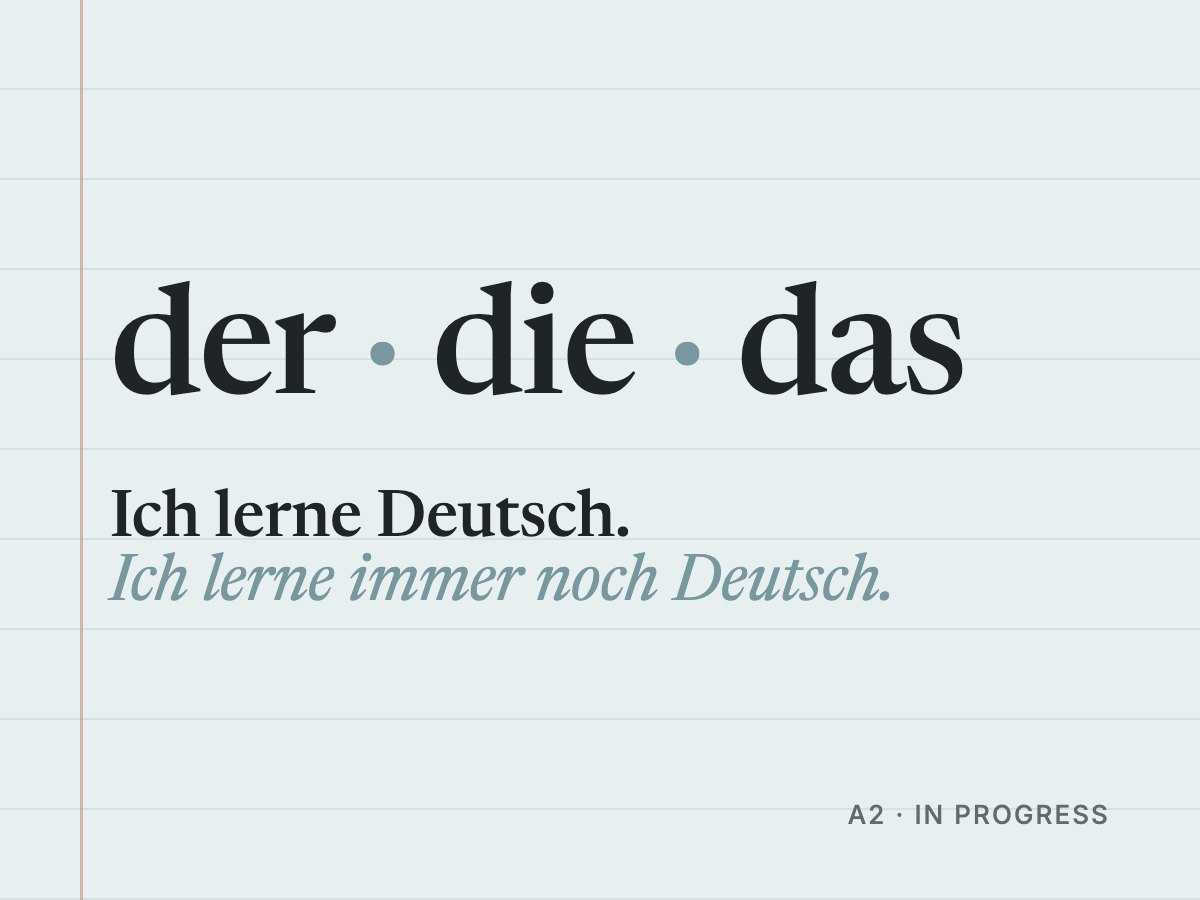
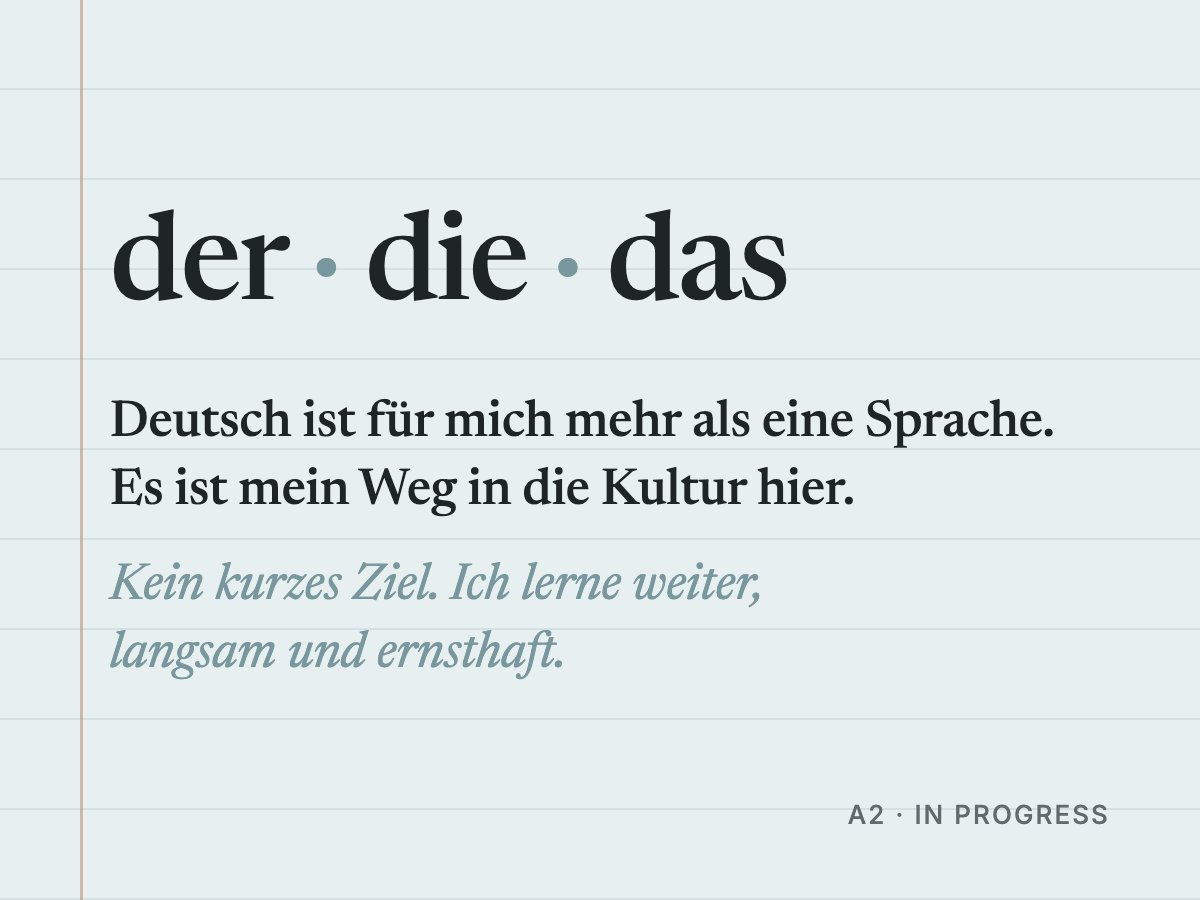
Life texts, German card, reading, podcast

Changed region(s): [[0.0925, 0.2178, 0.8633, 0.7467], [0.555, 0.3733, 0.5858, 0.4044]]

diff --git a/data/life.js b/data/life.js
@@ -11,9 +11,9 @@
 
 window.LIFE = {
   intro: {
-    en: "Outside work I dance, climb, run, skate, shoot arrows, read, visit museums, make things and look after my garden. These are simply things I love. Some of them also helped me grow, and I wrote about them.",
-    de: "Neben der Arbeit tanze ich, klettere, laufe, fahre Inliner, schieße mit Pfeil und Bogen, lese, gehe in Museen, bastle und kümmere mich um meinen Garten. Das sind einfach Dinge, die ich liebe. Manche davon haben mir auch geholfen zu wachsen, und darüber habe ich geschrieben.",
-    zh: "工作之外，我跳舞、攀岩、跑步、轮滑、射箭、读书、逛博物馆、做手工，也照料我的花园。这些只是我单纯喜欢的事。其中有一些也让我成长了，我把它们写了下来。",
+    en: "Outside work I dance, climb, run, skate and do archery, and I also love reading, visiting museums, making things by hand and looking after my garden. Some of these interests have been with me for many years; others simply make me happy. Many hobbies that seem small have quietly shaped me and become part of how I grew. So I wrote some of these moments down.",
+    de: "Neben der Arbeit tanze ich, klettere, laufe, fahre Inliner und schieße mit Pfeil und Bogen. Ich lese auch gern, gehe in Museen, bastle und kümmere mich um meinen Garten. Manche dieser Interessen begleiten mich seit vielen Jahren, andere machen mich einfach glücklich. Viele scheinbar kleine Hobbys haben mich unbemerkt geprägt und sind Teil meiner Entwicklung geworden. Deshalb habe ich einige dieser Momente aufgeschrieben.",
+    zh: "工作之余，我跳舞、攀岩、跑步、轮滑、射箭，也喜欢读书、逛博物馆、做手工和照料花园。有些兴趣陪了我很多年，有些只是单纯让我觉得快乐。很多看似微小的爱好，也在不知不觉中塑造了我，成为我成长的一部分。于是，我把这些片段也写了下来。",
   },
 
   lately: {
@@ -41,11 +41,11 @@ window.LIFE = {
       {
         name: { en: "German", de: "Deutsch", zh: "德语" },
         text: {
-          en: "Learning German. Still learning German.",
-          de: "Ich lerne Deutsch. Immer noch Deutsch.",
-          zh: "学德语。还在学德语。",
+          en: "More than a language: my way into German culture. A long-term project.",
+          de: "Mehr als eine Sprache: mein Weg in die deutsche Kultur. Ein langes Projekt.",
+          zh: "不只是一门语言，也是我走近德国文化的方式。想长期认真做下去。",
         },
-        image: { src: "images/life/german.jpg", caption: "Ich lerne immer noch Deutsch" },
+        image: { src: "images/life/german.jpg", caption: "Deutsch ist für mich mehr als eine Sprache." },
       },
     ],
   },
@@ -139,9 +139,9 @@ window.LIFE = {
       id: "reading",
       title: { en: "Reading", de: "Lesen", zh: "读书" },
       text: {
-        en: "I read fast, and I read in bursts. As a child I read an enormous amount in one concentrated stretch. Since then, reading comes in waves: a period of complete immersion, book after book, and then suddenly nothing for a while. The last wave came in the second year of my PhD. Now I can feel the next one coming: lately I have started reading a lot of philosophy.",
-        de: "Ich lese schnell, und ich lese in Schüben. Als Kind habe ich in einer einzigen intensiven Phase unglaublich viel gelesen. Seitdem kommt das Lesen in Wellen: eine Zeit völligen Eintauchens, Buch um Buch, und dann plötzlich eine Weile gar nichts. Die letzte Welle kam im zweiten Jahr meiner Promotion. Jetzt spüre ich, dass die nächste kommt: In letzter Zeit lese ich viel Philosophie.",
-        zh: "我读书很快，而且是爆发式地读。小时候我曾在一段时间里集中读了大量的书。从那以后，读书总是一阵一阵的：一段时间完全沉浸其中，一本接一本，然后突然很久不读。最近一次爆发是在博士第二年。最近我预感下一次爆发要来了：开始读很多哲学书。",
+        en: "I read fast, and often in bursts. As a child I once read a huge number of books in one concentrated stretch. Since then, reading has always come in waves for me: sometimes I am completely absorbed, reading one book after another; sometimes I don't touch a book for a long time. The last of these reading peaks came in the second year of my PhD.\n\nI have always felt that reading largely helps me make sense of things. In the past I learned about human nature, relationships and the complex ways people interact mostly from books. Now I increasingly like to bring that understanding back into real relationships: reflecting after I have lived through something, and continuing to get to know people, and myself, through those relationships.\n\nLately I have a feeling that the next reading peak is coming. AI has made me think again about many more basic questions, so I have started reading more philosophy. Questions about intelligence, consciousness, what a human being is, and how we actually understand the world have brought me back to books.",
+        de: "Ich lese schnell, und oft in Schüben. Als Kind habe ich in einer intensiven Phase sehr viele Bücher gelesen. Seitdem kommt das Lesen bei mir in Wellen: Manchmal tauche ich ganz ein und lese ein Buch nach dem anderen, manchmal rühre ich lange kein Buch an. Die letzte dieser Lesephasen war im zweiten Jahr meiner Promotion.\n\nIch hatte immer das Gefühl, dass Lesen mir vor allem hilft, Dinge zu verstehen. Früher habe ich aus Büchern viel über die menschliche Natur, über Beziehungen und über das komplizierte Miteinander von Menschen gelernt. Heute nehme ich dieses Verständnis immer lieber mit in echte Begegnungen: Ich denke über das Erlebte nach und lerne in Beziehungen weiter Menschen kennen, und auch mich selbst.\n\nIn letzter Zeit spüre ich, dass die nächste Lesephase kommt. Durch KI denke ich wieder über viele grundlegende Fragen nach, deshalb lese ich jetzt mehr Philosophie. Fragen über Intelligenz, Bewusstsein, darüber, was ein Mensch ist und wie wir die Welt eigentlich verstehen, haben mich zurück zu den Büchern gebracht.",
+        zh: "我读书很快，而且常常是爆发式地读。小时候，我曾在一段时间里集中读过大量的书。从那以后，阅读对我来说一直是一阵一阵的：有时会完全沉浸进去，一本接一本地读；有时又会很久不碰书。最近一次这样的阅读高峰，是在博士第二年。\n\n我一直觉得，读书很大程度上是在帮我解惑。以前，我更多从书里理解人性、关系和人与人之间复杂的互动；现在，我越来越喜欢把这些理解带回真实的人际交往中，在经历之后反思，在关系里继续认识人，也认识自己。\n\n最近，我隐约觉得下一次阅读高峰又要来了。AI 的出现让我重新开始思考很多更基础的问题，所以我开始读更多哲学。关于智能、意识、人是什么，以及我们究竟如何理解世界，这些问题又把我带回了书里。",
       },
       booksLabel: { en: "Books that stayed with me", de: "Bücher, die mich begleitet haben", zh: "影响我的书" },
       books: [

diff --git a/data/beyond.js b/data/beyond.js
@@ -17,33 +17,17 @@ window.BEYOND = {
     role: { en: "Science advisor (2024)", de: "Wissenschaftliche Beratung (2024)", zh: "科学顾问（2024）" },
     cover: "images/podcast-cover.jpg",
     summary: {
-      en: "A Chinese-language podcast about the people and stories behind top papers in psychology and neuroscience. As science advisor I studied each guest's work before the interview and guided listeners through the papers in plain language.",
-      de: "Ein chinesischsprachiger Podcast über die Menschen und Geschichten hinter Spitzenpublikationen aus Psychologie und Neurowissenschaft. In der wissenschaftlichen Beratung habe ich mich vor jedem Interview in die Arbeit der Gäste eingelesen und die Hörerinnen und Hörer in verständlicher Sprache durch die Studien geführt.",
-      zh: "一档讲述心理学和神经科学顶刊论文背后的人与故事的中文播客。作为科学顾问，我在每次访谈前研读嘉宾的研究，并用通俗的语言带听众读懂这些论文。",
+      en: "As science advisor, I hosted a Chinese-language podcast about the people and stories behind top papers in psychology and neuroscience. The show interviews scientists from around the world. Before each interview I read the guest's research in depth and lay out the core questions, methods and debates in their papers, so the conversation goes beyond the abstract.\n\nI read papers fast: I can usually grasp the main logic of a paper in my field in 5 to 10 minutes. For the podcast I care about something else: how to turn complex research into questions a general audience can follow, so the scientific discussion stays accurate without losing the human story.\n\nBesides the interviews, I also organise and host public reading sessions. I break down the papers in advance and design a reading path and discussion questions, so listeners without a specialist background can enter a paper step by step, and a large group stays focused, engaged and lively through a long reading session.",
+      de: "In der wissenschaftlichen Beratung habe ich einen chinesischsprachigen Podcast moderiert, der von den Menschen und Geschichten hinter Spitzenpublikationen aus Psychologie und Neurowissenschaft erzählt. Die Sendung interviewt Forschende aus der ganzen Welt. Vor jedem Interview lese ich mich gründlich in die Forschung der Gäste ein und arbeite die zentralen Fragen, Methoden und Kontroversen ihrer Studien heraus, damit das Gespräch über das Abstract hinausgeht.\n\nIch lese Paper schnell: Die Hauptlogik eines Papers aus meinem Fachgebiet verstehe ich meist in 5 bis 10 Minuten. Beim Podcast geht es mir um etwas anderes: Wie übersetzt man komplexe Forschung in Fragen, denen ein breites Publikum folgen kann? So bleibt die wissenschaftliche Diskussion genau, und die menschliche Geschichte geht nicht verloren.\n\nNeben den Interviews organisiere und moderiere ich auch öffentliche Lesesessions. Ich bereite die Paper vorher auf und plane einen Leseweg und Diskussionsfragen. So können auch Hörerinnen und Hörer ohne Fachhintergrund Schritt für Schritt in eine Studie einsteigen, und eine große Gruppe bleibt über eine lange Lesezeit konzentriert, beteiligt und lebendig.",
+      zh: "作为科学顾问，我曾主持一档中文播客，讲述心理学和神经科学顶刊论文背后的人与故事。节目采访来自世界各地的科学家。每次访谈前，我都会深入阅读嘉宾的研究，梳理论文中的核心问题、方法和争议，让对话不只停留在摘要层面。\n\n我读论文很快。本领域的一篇论文，我通常可以在 5 到 10 分钟内抓住主要逻辑；做播客时，我更关心另一件事：怎样把复杂的研究转化成普通听众也能跟上的问题，让科学讨论既准确，又不失去人的故事。\n\n除了访谈，我也组织和主持公开共读。我会提前拆解论文、设计阅读路径和讨论问题，让没有专业背景的听众也能一步步进入论文，同时让一大群人在长时间阅读中保持专注、参与感和讨论的热度。",
     },
-    points: [
-      {
-        en: "Fast, deep reading: I can read a paper in my field in 5 to 10 minutes, and for the podcast I turned papers into questions a general audience could follow.",
-        de: "Schnelles, gründliches Lesen: Ein Paper aus meinem Fachgebiet lese ich in 5 bis 10 Minuten, und für den Podcast habe ich Studien in Fragen übersetzt, denen ein breites Publikum folgen konnte.",
-        zh: "快速而深入的阅读：本领域的一篇论文我 5 到 10 分钟就能读完。做播客时，我把论文转化成普通听众也能跟上的问题。",
-      },
-      {
-        en: "Guest preparation: I researched each guest's work before the interview so the conversation went beyond the abstract.",
-        de: "Vorbereitung der Gäste: Vor jedem Interview habe ich mich in die Forschung der Gäste eingearbeitet, damit das Gespräch über das Abstract hinausging.",
-        zh: "访前准备：每次访谈前我都会深入了解嘉宾的研究，让对话不止停留在摘要层面。",
-      },
-      {
-        en: "Large public reading sessions: I organised and moderated group readings, keeping a big room focused and lively.",
-        de: "Große öffentliche Lesesessions: Ich habe gemeinsame Lektürerunden organisiert und moderiert und dabei eine große Gruppe konzentriert und lebendig gehalten.",
-        zh: "大型公开共读：我组织并主持集体阅读活动，能让一大群人既保持专注又气氛活跃。",
-      },
-    ],
+    // Paragraphs are separated by a blank line (\n\n). The old bullet points were folded into the summary.
     journals: ["Nature Human Behaviour", "Nature Neuroscience", "PNAS", "The Lancet"],
     teamMembers: [
-      { name: "yq", about: { en: "engineer in the Netherlands", de: "Ingenieur:in in den Niederlanden", zh: "荷兰的工程师" } },
-      { name: "白博士", about: { en: "autism researcher in the UK", de: "Autismusforscher:in in Großbritannien", zh: "英国的自闭症研究者" } },
-      { name: "马儿", about: { en: "university psychology lecturer", de: "Psychologiedozent:in an einer Hochschule", zh: "高校心理学老师" } },
-      { name: "Tonghe", about: { en: "science advisor in Germany", de: "wissenschaftliche Beratung, Deutschland", zh: "德国的科学顾问" } },
+      { name: "yq", about: { en: "engineer in the Netherlands", de: "Ingenieur:in in den Niederlanden", zh: "在荷兰的工程师" } },
+      { name: "白博士", about: { en: "autism researcher in the UK", de: "Autismusforscher:in in Großbritannien", zh: "在英国的自闭症研究者" } },
+      { name: "马儿", about: { en: "psychology lecturer at a university", de: "Psychologiedozent:in an einer Hochschule", zh: "在高校的心理学老师" } },
+      { name: "Tonghe", about: { en: "science advisor in Germany", de: "wissenschaftliche Beratung, Deutschland", zh: "在德国的科学顾问" } },
     ],
     teamNote: {
       en: "A lively, curious team spread around the world. Apart from me, the team members are also the creators of 锵锵脑科学.",

diff --git a/life.js b/life.js
@@ -3,7 +3,7 @@
  * You normally never need to edit this file; edit the data files instead.
  */
 (function () {
-  const { t, esc, groups } = window.SITE;
+  const { t, esc, paras, groups } = window.SITE;
   const ui = {
     openingOnly: t({ en: "opening only", de: "nur der Anfang", zh: "仅开头" }),
     enlarge: t({ en: "Enlarge", de: "Vergrößern", zh: "放大" }),
@@ -40,7 +40,7 @@
           ${it.image ? `<button type="button" class="lately-img" data-lb="lately-${i}" data-i="0" aria-label="${esc(ui.enlarge)}: ${esc(t(it.image.caption))}"><img src="${esc(it.image.src)}" alt="${esc(t(it.image.caption))}"></button>` : ""}
           <div class="card-body">
             <h3>${esc(t(it.name))}</h3>
-            <p>${esc(t(it.text))}</p>
+            ${paras(t(it.text))}
           </div>
         </article>`;
       })
@@ -52,7 +52,7 @@
       <article class="card life-group" id="${esc(g.id)}">
         <div class="card-body">
           <h3>${esc(t(g.title))}</h3>
-          <p>${esc(t(g.text))}</p>
+          ${paras(t(g.text))}
           ${g.items?.length ? `<div class="practices">${g.items.map(chip).join("")}</div>` : ""}
           ${g.books?.length ? `<div class="books"><h4>${esc(t(g.booksLabel))}</h4><ul>${g.books.map((b) => `<li><span class="book-title">${esc(t(b.title))}</span> <span class="book-author">${esc(t(b.author))}${b.note ? `, ${esc(t(b.note))}` : ""}</span></li>`).join("")}</ul></div>` : ""}
           ${g.images?.length ? photos(g.id, g.images, g.columns) : ""}

diff --git a/app.js b/app.js
@@ -5,7 +5,7 @@
 (function () {
   const P = window.PROFILE;
   const PROJECTS = window.PROJECTS;
-  const { LANG, t, esc } = window.SITE;
+  const { LANG, t, esc, paras } = window.SITE;
 
   // Interface text per language.
   const UI = {
@@ -176,8 +176,8 @@
           <div class="flag">${esc(ui.scicomm)}</div>
           <h3>${esc(t(pc.title))} <span class="zh">${esc(pc.zhTitle)}</span></h3>
           <div class="meta">${esc(t(pc.role))} · ${esc(pc.team)}</div>
-          <p>${esc(t(pc.summary))}</p>
-          <ul class="points">${pc.points.map((x) => `<li>${esc(t(x))}</li>`).join("")}</ul>
+          ${paras(t(pc.summary))}
+          ${pc.points?.length ? `<ul class="points">${pc.points.map((x) => `<li>${esc(t(x))}</li>`).join("")}</ul>` : ""}
           ${pc.stats?.length ? statRow(pc.stats) : ""}
           <p class="small">${esc(ui.guests)}: ${pc.journals.map((j) => `<em>${esc(j)}</em>`).join(", ")}</p>
           <p class="small"><strong>${esc(ui.team)}:</strong> ${pc.teamMembers.map((m) => `${esc(m.name)}, ${esc(t(m.about))}`).join(" · ")}. ${esc(t(pc.teamNote))}</p>

diff --git a/shared.js b/shared.js
@@ -50,6 +50,9 @@ window.SITE = (function () {
   const esc = (s) =>
     String(s ?? "").replace(/[&<>"']/g, (c) => ({ "&": "&amp;", "<": "&lt;", ">": "&gt;", '"': "&quot;", "'": "&#39;" }[c]));
 
+  // Text with blank lines ("\n\n") becomes several <p> paragraphs.
+  const paras = (s) => String(s ?? "").split(/\n\n+/).map((p) => `<p>${esc(p)}</p>`).join("");
+
   /* ---------- Lightbox ----------
    * Any <button data-lb="group" data-i="n"> opens image n of SITE.groups[group].
    */
@@ -128,5 +131,5 @@ window.SITE = (function () {
     initTheme();
   }
 
-  return { LANG, LANGS, t, esc, groups, init };
+  return { LANG, LANGS, t, esc, paras, groups, init };
 })();
